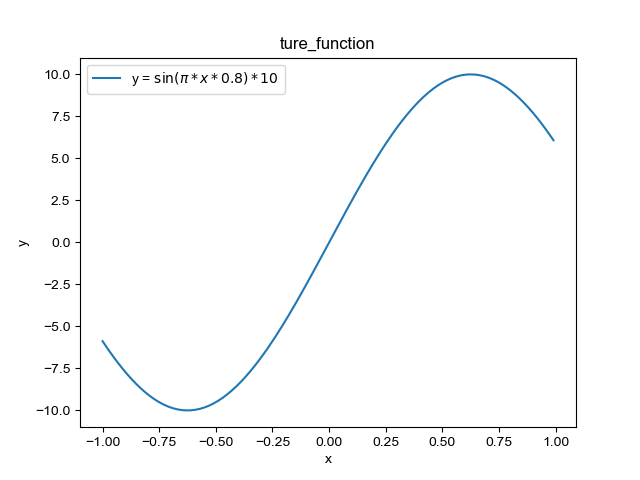
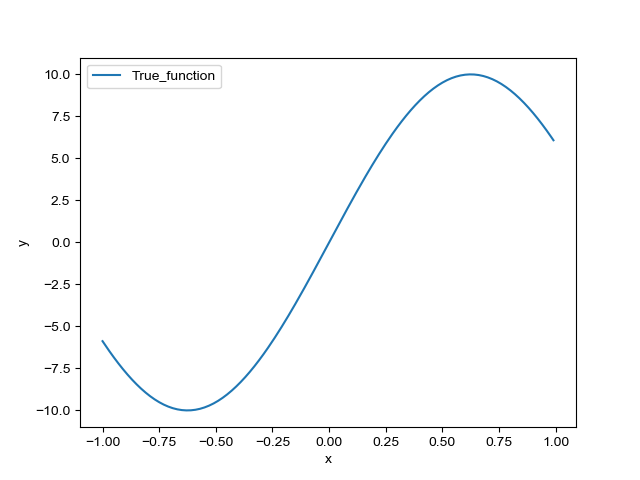
add ex1.6

Changed region(s): [[0.125, 0.125, 0.4375, 0.1875], [0.4375, 0.0625, 0.5938, 0.125]]

diff --git a/dataset1.py b/dataset1.py
@@ -1,4 +1,6 @@
 import math
+import random
+import pandas as pd
 import numpy as np
 import matplotlib
 import matplotlib.pyplot as plt
@@ -7,22 +9,16 @@ font_path = '/Library/Fonts/Arial Unicode.ttf'
 font_prop = font_manager.FontProperties(fname = font_path)
 matplotlib.rcParams['font.family'] = font_prop.get_name()
 
-path = "/Users/e195767/VS code/Data_Mining_Code/exam/"
-
 #ex1.1
 
 def true_function(x):
     '''
-    >>> true_function(0)
-    0.0
+    >>> true_function(0) == 0
+    True
     '''
     y = np.sin(np.pi * x * 0.8) * 10
     return y
 
-"""
-#doctest
-import doctest
-doctest.testmod()
 """
 x = np.arange(-1,1,0.01)
 
@@ -31,12 +27,12 @@ plt.title("ture_function")
 plt.xlabel("x")
 plt.ylabel("y")
 plt.legend()
-#plt.savefig(path + "ex1.1.png")
-#plt.show()
+plt.savefig(path + "ex1.1.png")
+plt.show()
+"""
 
+"""
 #ex1.2
-import random
-import pandas as pd
 random.seed(0)
 
 n = [round(random.uniform(-1, 1), 2) for _ in range(20)]
@@ -46,25 +42,83 @@ data = np.array([n, true_val]).T
 
 df = pd.DataFrame(data, columns=["観測点", "真値"])
 
+
 for i in range(len(n)):
     plt.plot(n[i], true_val[i], marker=".", markersize=10, color="red")
-#plt.savefig(path + "ex1.2.png")
-#plt.show()
+plt.savefig(path + "ex1.2.png")
+plt.show()
+"""
 
+"""
 #ex1.3
-
 noize = [round(random.normalvariate(mu=0.0, sigma=2.0)/2, 2) for _ in range(20)]
 
 noize_data = df["真値"] + noize
-df["観測値"] = np.array(noize).T
+df["観測値"] = np.array(noize_data).T
+
 
 for i in range(len(noize)):
     plt.plot(n[i], noize_data[i], marker="^", markersize=5, color="green")
 plt.savefig(path + "ex1.3.png")
 plt.show()
+"""
 
 #ex1.4
 #df.to_csv(path + "dataset1.tsv", sep="\t", index=False)
 
 #ex1.5
 #dataset = pd.read_csv(path + "dataset1.tsv", sep="\t")
+
+#ex1.6
+
+def sample_plot(x_min, x_max, step, df, path): #plotする関数
+    x = np.arange(x_min, x_max, step)
+
+    plt.plot(x,true_function(x),label="True_function")
+    plt.xlabel("x")
+    plt.ylabel("y")
+    plt.legend(loc="best")
+    plt.savefig(path + "ex1.1.png")
+
+    plt.scatter(df["観測点"].values, df["真値"].values, marker=".", color="red", label="True_data")
+    plt.legend(loc="best")
+    plt.savefig(path + "ex1.2.png")
+
+    plt.scatter(df["観測点"].values, df["観測値"].values, marker="^", color="green", label="観測値")
+    plt.legend(loc="best")
+    plt.savefig(path + "ex1.3.png")
+
+def make_true_data(data_size, min_val, max_val, column_name, random_state=0):
+    random.seed(random_state)
+    n = [round(random.uniform(min_val, max_val), 2) for _ in range(data_size)]
+    true_val = [true_function(i) for i in n]
+
+    data = np.array([n, true_val]).T
+
+    df = pd.DataFrame(data, columns=column_name)
+    return df
+
+def make_noize(data_size, average, std, df):
+    noize = [round(random.normalvariate(average, std)/2, 2) for _ in range(data_size)]
+
+    noize_data = df["真値"] + noize
+    df["観測値"] = np.array(noize_data).T
+    return df
+
+def save_df_to_tsv(df, path, filename):
+    df.to_csv(path + filename, sep="\t", index=False)
+
+def load_tsv_from_df(path, filename):
+    dataset = pd.read_csv(path + filename, sep="\t")
+    return dataset
+
+if __name__ == '__main__':
+    path = "/Users/e195767/VS code/Data_Mining_Code/exam/"
+    x_min = -1
+    x_max = 1
+    step = 0.01
+    df = make_true_data(data_size=20, min_val=-1, max_val=1, column_name=["観測点", "真値"]) #ノイズなし
+    df = make_noize(data_size=20, average=0.0, std=2.0, df=df) #ノイズ付与
+    sample_plot(x_min, x_max, step, df, path) #plot
+    save_df_to_tsv(df, path, filename="dataset1.tsv") #tsvファイル形式で保存
+    dataset = load_tsv_from_df(path, filename="dataset1.tsv") #tsvファイルの読み込み
